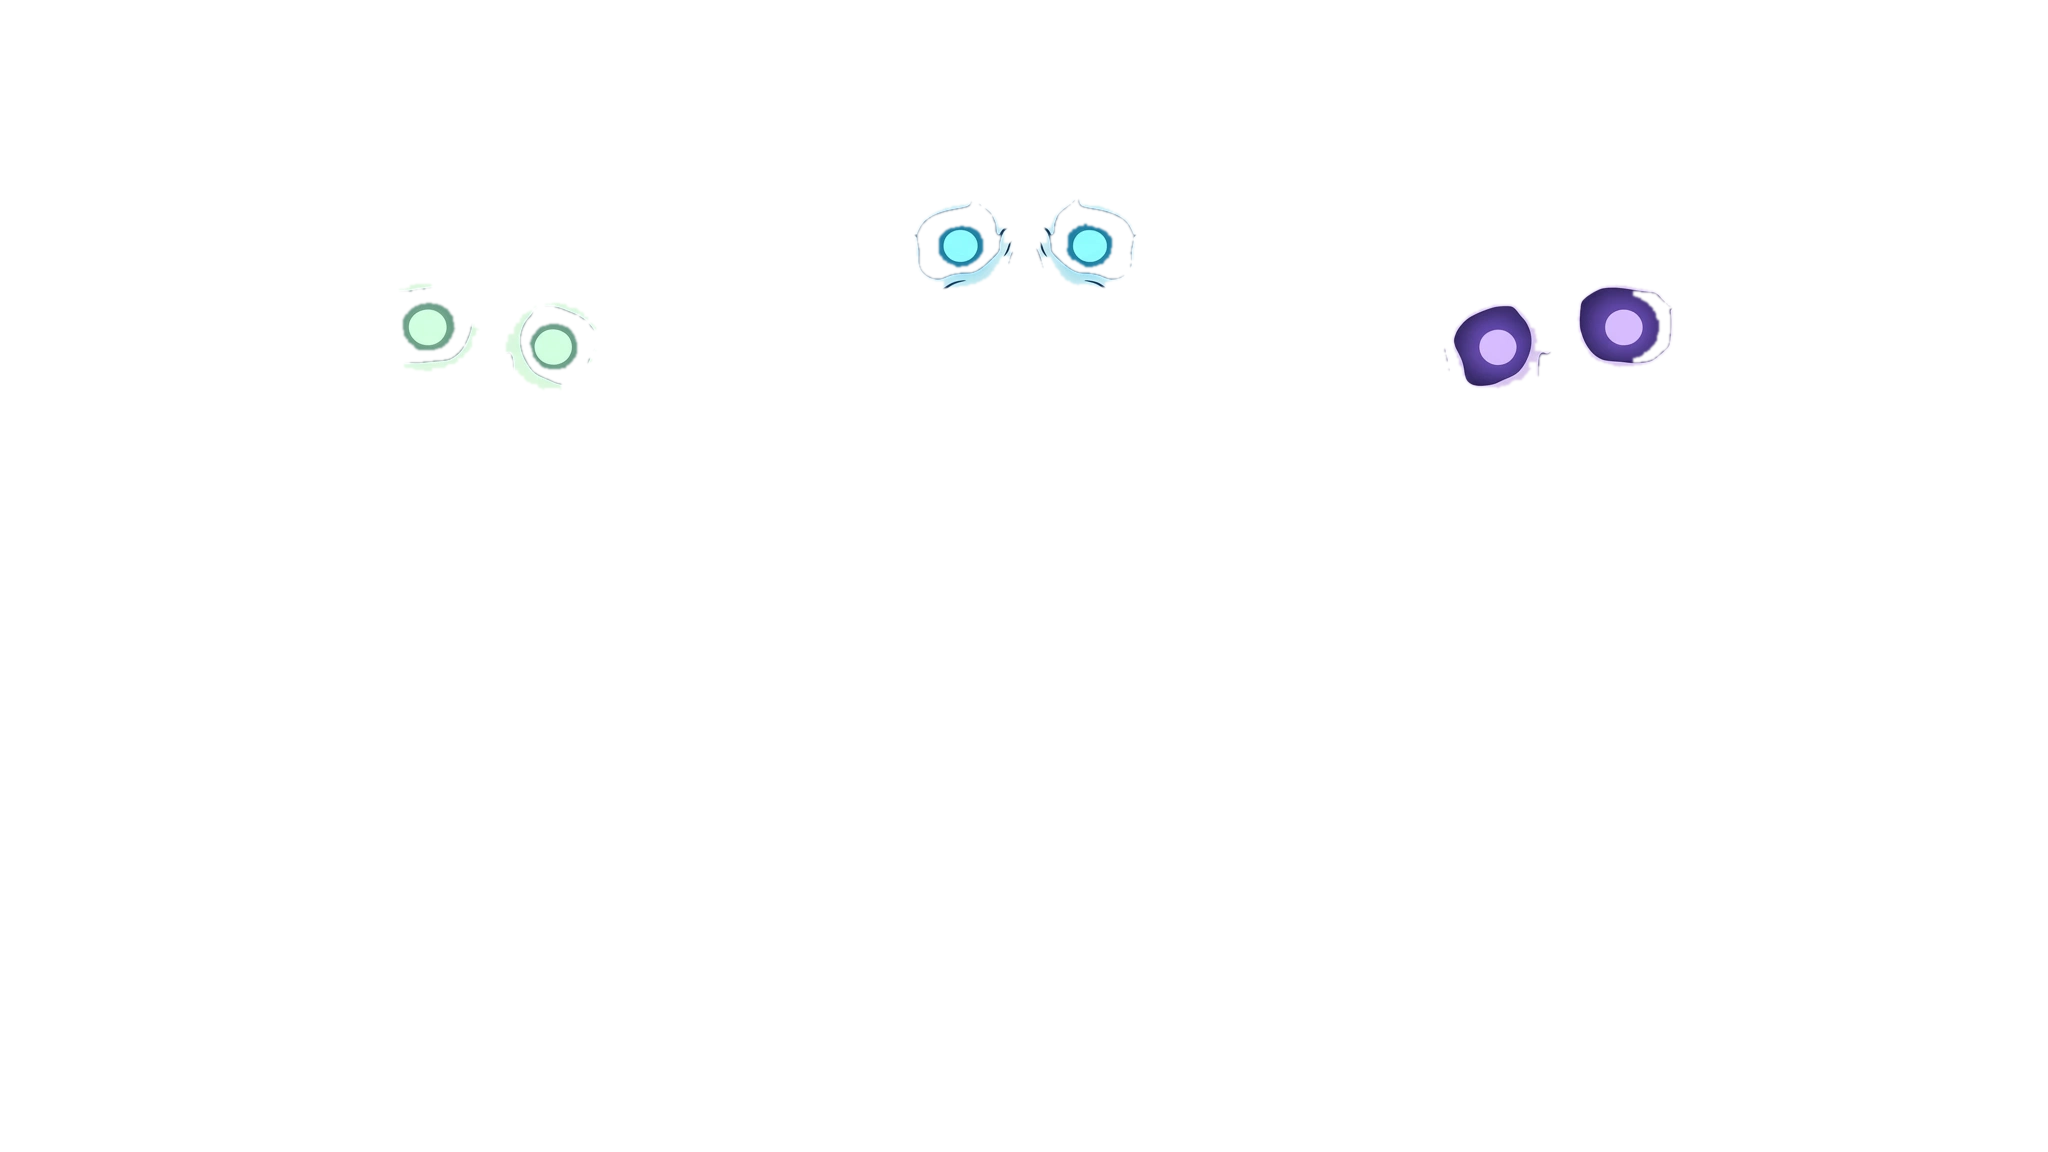
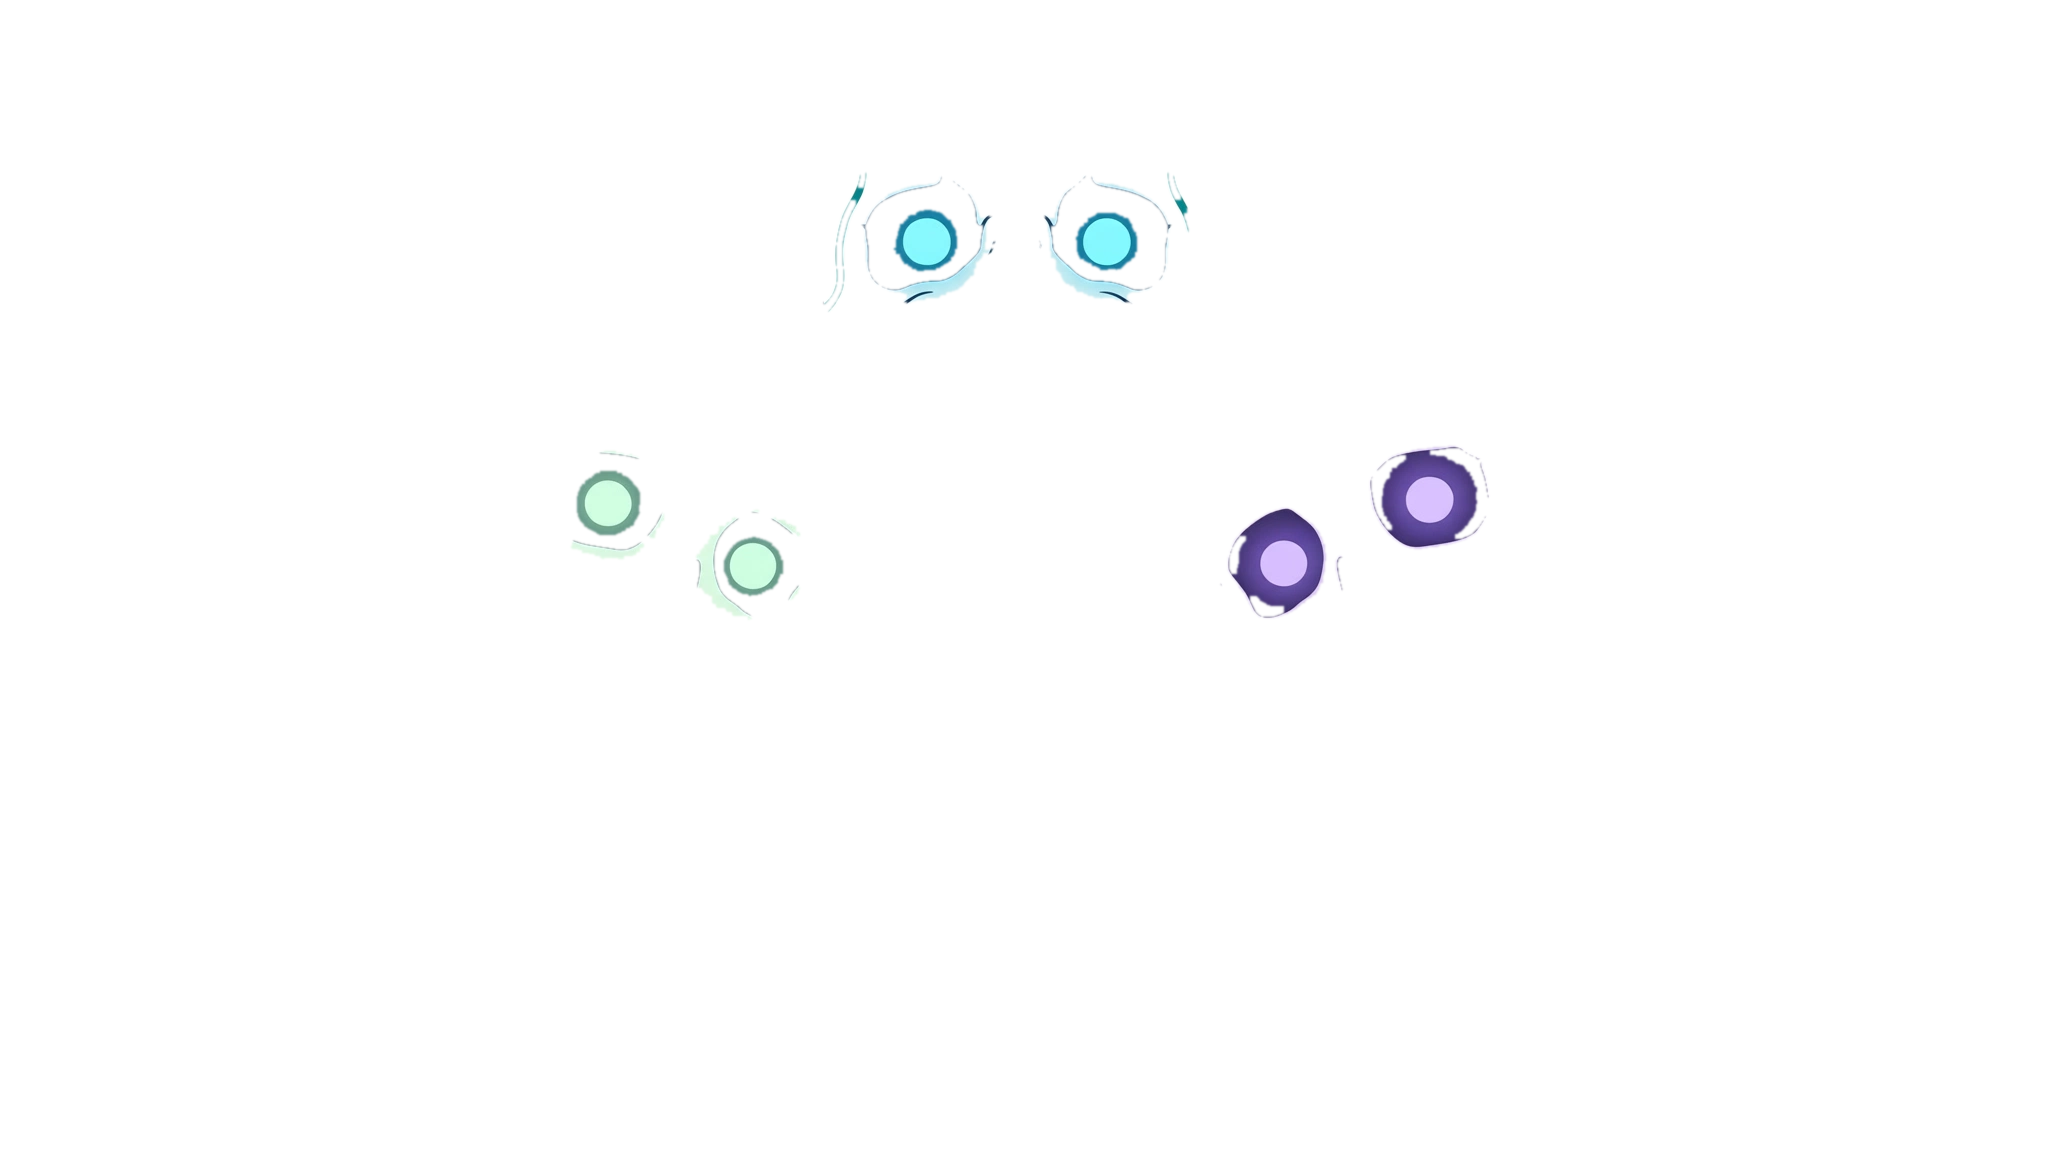
feat(skins): Trio becomes the board plate — two hands hold the playlist
Lan's correction to the no-hands row: back to the tight overlapping
trio (center skull high, side skulls low, no bodies), and below
them a wide dark board held by two bony hands. The board's glowing
top edge is the seek, its face is the playlist (title on the top
strip), the gripping hands are prev/next, and volume runs down the
board's right edge to the baked dot. The near-black board is
protected from the backdrop flood fill or the fill eats it.

diff --git a/src/renderer/style.css b/src/renderer/style.css
@@ -1471,9 +1471,10 @@ input[type="range"]::-moz-range-thumb {
 
 /* ════════════════════════════════════════════════════════════════════
    SKELETON TRIO — IMAGE FRAME (2026-11-09)
-   Three skeletons, one frame. All six eye sockets are one separated
-   layer; the center skeleton carries viz / seek / spine volume; the
-   raised outer hands (top corners) are prev / next.
+   Three skulls, one frame. All six eye sockets are one separated
+   layer; the center skull carries the jaw visualizer; below, two hands
+   hold a board — the board's top edge is the seek, the board is the
+   playlist, the gripping hands are prev / next, board edge = volume.
    ════════════════════════════════════════════════════════════════════ */
 [data-skin="skeleton-trio"] {
   --color-accent: #8adcff;
@@ -1510,10 +1511,10 @@ input[type="range"]::-moz-range-thumb {
 }
 .skeleton-trio-skin .tr-eyes {
   position: absolute;
-  left: 12%;
-  top: 8%;
-  width: 75%;
-  height: 42%;
+  left: 20%;
+  top: 3%;
+  width: 59.5%;
+  height: 57%;
   padding: 0;
   background: transparent;
   border: none;
@@ -1529,20 +1530,20 @@ input[type="range"]::-moz-range-thumb {
   opacity: 0;
   transition: opacity 0.35s ease;
   background:
-    radial-gradient(circle at 20.8% 28.5%, rgba(150, 255, 205, 0.55), rgba(150, 255, 205, 0.15) 3%, transparent 5.5%),
-    radial-gradient(circle at 26.8% 29.5%, rgba(150, 255, 205, 0.55), rgba(150, 255, 205, 0.15) 3%, transparent 5.5%),
-    radial-gradient(circle at 47% 21%, rgba(110, 220, 255, 0.6), rgba(110, 220, 255, 0.16) 3%, transparent 5.5%),
-    radial-gradient(circle at 53% 21%, rgba(110, 220, 255, 0.6), rgba(110, 220, 255, 0.16) 3%, transparent 5.5%),
-    radial-gradient(circle at 73.8% 29.5%, rgba(185, 150, 255, 0.55), rgba(185, 150, 255, 0.15) 3%, transparent 5.5%),
-    radial-gradient(circle at 79.8% 28.5%, rgba(185, 150, 255, 0.55), rgba(185, 150, 255, 0.15) 3%, transparent 5.5%);
+    radial-gradient(circle at 30.5% 43.5%, rgba(150, 255, 205, 0.55), rgba(150, 255, 205, 0.15) 3.5%, transparent 6%),
+    radial-gradient(circle at 36.5% 48%, rgba(150, 255, 205, 0.55), rgba(150, 255, 205, 0.15) 3.5%, transparent 6%),
+    radial-gradient(circle at 45.3% 20.8%, rgba(110, 220, 255, 0.6), rgba(110, 220, 255, 0.16) 3.5%, transparent 6%),
+    radial-gradient(circle at 54% 20.8%, rgba(110, 220, 255, 0.6), rgba(110, 220, 255, 0.16) 3.5%, transparent 6%),
+    radial-gradient(circle at 63% 48%, rgba(185, 150, 255, 0.55), rgba(185, 150, 255, 0.15) 3.5%, transparent 6%),
+    radial-gradient(circle at 69.5% 43.5%, rgba(185, 150, 255, 0.55), rgba(185, 150, 255, 0.15) 3.5%, transparent 6%);
   z-index: 2;
 }
 .skeleton-trio-skin .tr-body:has(.tr-eyes.playing) .tr-eye-glow { opacity: 1; }
 .skeleton-trio-skin .tr-track-info {
   position: absolute;
-  left: 39.8%;
-  top: 50.3%;
-  width: 20.4%;
+  left: 38%;
+  top: 68.6%;
+  width: 24%;
   text-align: center;
   z-index: 3;
   pointer-events: none;
@@ -1568,10 +1569,10 @@ input[type="range"]::-moz-range-thumb {
 }
 .skeleton-trio-skin .tr-viz-panel {
   position: absolute;
-  left: 46.3%;
-  top: 32.5%;
-  width: 8%;
-  height: 11.5%;
+  left: 43.3%;
+  top: 38%;
+  width: 12.2%;
+  height: 15%;
   border-radius: 8px;
   background: rgba(5, 9, 15, 0.5);
   box-shadow: inset 0 0 14px rgba(0, 0, 0, 0.5);
@@ -1581,9 +1582,9 @@ input[type="range"]::-moz-range-thumb {
 .skeleton-trio-skin .tr-prev,
 .skeleton-trio-skin .tr-next {
   position: absolute;
-  top: 55%;
-  width: 8%;
-  height: 40%;
+  top: 78%;
+  width: 9.5%;
+  height: 14.5%;
   padding: 0;
   background: transparent;
   border: none;
@@ -1592,8 +1593,8 @@ input[type="range"]::-moz-range-thumb {
   z-index: 4;
   -webkit-app-region: no-drag;
 }
-.skeleton-trio-skin .tr-prev { left: 2.5%; }
-.skeleton-trio-skin .tr-next { left: 89.5%; }
+.skeleton-trio-skin .tr-prev { left: 20%; }
+.skeleton-trio-skin .tr-next { left: 70.5%; }
 .skeleton-trio-skin .tr-prev:hover,
 .skeleton-trio-skin .tr-next:hover {
   background: radial-gradient(circle, rgba(170, 230, 255, 0.22), transparent 72%);
@@ -1604,21 +1605,11 @@ input[type="range"]::-moz-range-thumb {
 }
 .skeleton-trio-skin .tr-seek-region {
   position: absolute;
-  left: 9.5%;
-  top: 70.3%;
-  width: 81.5%;
+  left: 22.5%;
+  top: 65.6%;
+  width: 54.8%;
   z-index: 4;
   -webkit-app-region: no-drag;
-}
-.skeleton-trio-skin .tr-seek-region::before {
-  content: '';
-  position: absolute;
-  inset: -10px -6px;
-  border-radius: 50%;
-  background: linear-gradient(180deg, transparent 30%, rgba(110, 220, 255, 0.13) 50%, transparent 72%);
-  -webkit-mask-image: linear-gradient(to right, black 0 29%, transparent 29% 35%, black 35% 64%, transparent 64% 70%, black 70% 100%);
-  mask-image: linear-gradient(to right, black 0 29%, transparent 29% 35%, black 35% 64%, transparent 64% 70%, black 70% 100%);
-  pointer-events: none;
 }
 .skeleton-trio-skin .tr-seek {
   width: 100%;
@@ -1658,10 +1649,10 @@ input[type="range"]::-moz-range-thumb {
 }
 .skeleton-trio-skin .tr-spine-vol {
   position: absolute;
-  left: 46.8%;
-  top: 84%;
-  width: 6.4%;
-  height: 15.5%;
+  left: 74.6%;
+  top: 71%;
+  width: 3.6%;
+  height: 24%;
   cursor: grab;
   z-index: 4;
   -webkit-app-region: no-drag;
@@ -1697,10 +1688,10 @@ input[type="range"]::-moz-range-thumb {
 }
 .skeleton-trio-skin .tr-playlist {
   position: absolute;
-  left: 39.5%;
+  left: 27.5%;
   top: 75.5%;
-  width: 21%;
-  max-height: 8.5%;
+  width: 41.5%;
+  max-height: 20%;
   margin: 0;
   padding: 4px;
   list-style: none;

diff --git a/AGENTS.md b/AGENTS.md
@@ -32,7 +32,7 @@ Costume Contest: a haunting UI that is polished/unforgettable AND where the spoo
   - `src/renderer/` — all UI code (audio engine, player logic, skins)
   - `src/renderer/skins/index.ts` — skin registry (add new skins here)
   - `resources/` — app icon and other native assets
-  - `public/tracks/` — bundled royalty-free demo tracks (not yet added)
+  - `public/tracks/` — bundled royalty-free demo tracks (added 2026-11-10; see Open decisions)
 
 ## Scope v1
 - **Electron desktop app**; local audio files via native OS file picker + bundled royalty-free demo tracks.
@@ -74,7 +74,7 @@ Costume Contest: a haunting UI that is polished/unforgettable AND where the spoo
 - **Image frame + separated mechanism — 2026-11-09 (Lan's direction, supersedes the hand-drawn SVG silhouette for Dracula):** the approved artwork itself is the frame. A text-free edit of the reference ships as `src/renderer/assets/dracula-frame.webp`, clipped to the character outline via CSS `clip-path`; each painted element is a live overlay control — eyes = play/pause hotspot + playing glow, blood line = seek (transparent track, drip thumb), medallion = volume (drag / wheel / arrow keys; a gold orbit dot circles it to show the value), cape interior = live visualizer over a settling panel, fangs = prev/next hotspots, real title + playlist rendered over the art. Hotspot coordinates were verified by compositing the control boxes over the plate. Lesson earned the same day: match the approved reference's proportions, not just its ingredient list — a from-scratch SVG redraw read as "lame" next to the generated art.
 - **Separated element layers — 2026-11-09:** the plate's eyes, medallion and fangs are now real transparent layers (`src/renderer/assets/dracula-*.png`, full-canvas so they stack pixel-exact), extracted by color segmentation (SAM was attempted first; the PyTorch download is proxy-blocked in the build sandbox, and for flat art the color masks are crisper anyway). The medallion is erased from the shipped plate (stretch-inpaint) so the extracted layer genuinely rotates with volume; eye layers pulse via CSS filter while playing; fang layers glow when their hotspot is hovered/pressed. Layers recombine over the cleaned plate pixel-identical to the original art (verified by composite).
 - **True transparency — 2026-11-09:** the plate's baked-in dark backdrop survived the hand-traced CSS `clip-path` as a faint square around the character (Lan spotted it on Windows). Fix: the backdrop is flood-filled out of the plate itself (the gold trim is a closed boundary; backdrop = neutral grey connected to the image borders), so `dracula-frame.webp` now carries a real alpha channel and the `clip-path` is gone. Verified by compositing the plate on white and bright teal — clean character edge, no rectangle. Lesson: never approximate an outline with a polygon when the art can carry its own alpha.
-- **Skin #4: Skeleton Trio — 2026-11-09 (Lan's pick, one skin with three skeletons):** three skeletons shoulder-to-shoulder as one frame; all six eye sockets (mint / cyan / violet) are one separated layer + one wide play/pause hotspot; the CENTER skeleton carries the jaw visualizer, ribcage seek and spine volume (same vertical mechanism as solo Skeleton); the raised outer hands at the top corners are prev/next. **Revised to BUSTS the same day (Lan: "no need the whole body"):** three big busts cropped at mid-torso — skulls and sockets much larger, seek across the center ribs, spine volume on the short vertebra stub below the ribs, playlist across the lower ribs. The full-body version exists only in git history (`ccd82196`). **Then revised to LANDSCAPE the same day (Lan's pick):** the Trio is a wide 16:9 plate and it is the first skin to own the window shape: `Skin.windowSize` (Trio declares 1024×576; every other skin defaults to portrait 480×720) is applied by `Player.mountSkin` through the `window:set-size` IPC (main unmaximizes, resizes, centers). **Final plate (Lan pointed at the portrait-bust art: "make this one in landscape"; hands removed on his call 2026-11-10):** the big-skulled bust trio recomposed wide with NO hands anywhere — the arms are single hanging bones at the far edges and those bones are prev/next. The seek line spans all three ribcages again (its CSS glow band is mask-clipped to the three cage columns so it never floats over the gaps), center skeleton carries jaw viz + spine volume, side skulls complete the play/pause row, playlist across the lower center ribs. The smaller holding-hands landscape plate and the first bust-landscape plate (waving hands) were both replaced. Note: rib-gap pockets sealed by overlapping bodies stay as dark backing inside the cages — reads as shadow, accepted.
+- **Skin #4: Skeleton Trio — 2026-11-09 (Lan's pick, one skin with three skeletons):** three skeletons shoulder-to-shoulder as one frame; all six eye sockets (mint / cyan / violet) are one separated layer + one wide play/pause hotspot; the CENTER skeleton carries the jaw visualizer, ribcage seek and spine volume (same vertical mechanism as solo Skeleton); the raised outer hands at the top corners are prev/next. **Revised to BUSTS the same day (Lan: "no need the whole body"):** three big busts cropped at mid-torso — skulls and sockets much larger, seek across the center ribs, spine volume on the short vertebra stub below the ribs, playlist across the lower ribs. The full-body version exists only in git history (`ccd82196`). **Then revised to LANDSCAPE the same day (Lan's pick):** the Trio is a wide 16:9 plate and it is the first skin to own the window shape: `Skin.windowSize` (Trio declares 1024×576; every other skin defaults to portrait 480×720) is applied by `Player.mountSkin` through the `window:set-size` IPC (main unmaximizes, resizes, centers). **Final plate (Lan pointed at the portrait-bust art: "make this one in landscape"; hands removed on his call 2026-11-10):** the big-skulled bust trio recomposed wide with NO hands anywhere — the arms are single hanging bones at the far edges and those bones are prev/next. The seek line spans all three ribcages again (its CSS glow band is mask-clipped to the three cage columns so it never floats over the gaps), center skeleton carries jaw viz + spine volume, side skulls complete the play/pause row, playlist across the lower center ribs. The smaller holding-hands landscape plate and the first bust-landscape plate (waving hands) were both replaced. **Superseded the same evening (Lan: "it suppose similar to this, and below will have a board that holded by 2 hands"): the BOARD plate** — back to the tight overlapping trio (center skull high, side skulls low, no bodies), and below them a wide dark board held by two bony hands: the board's glowing top edge is the seek, the board face is the playlist (title on its top strip), the gripping hands are prev/next, and volume runs down the board's right edge (the vertical drag mechanism, ending at the baked dot). Pipeline note: the near-black board is backdrop-dark, so the flood fill protects its rectangle or it eats the board. Note: rib-gap pockets sealed by overlapping bodies stay as dark backing inside the cages — reads as shadow, accepted.
 - **Push repair — 2026-11-10:** the no-hands Trio push was built on a stale local sync and briefly reverted the 2026-11-10/11 work in `style.css` / this file (web-parity Dracula, window shape, plate sizing). Repaired the same session by rebuilding both files on top of the live versions with only the Trio delta reapplied, and verified the remote diff. Lesson (again): re-sync and diff every pushed file against live main at push time, especially after time away from the repo.
 
 - **All three skins image-frame — 2026-11-09:** Frankenstein and Skeleton got the full Dracula treatment — generated character art (text-free on the first pass this time), backdrop flood-filled to alpha, element layers separated by color segmentation. Frankenstein: forehead EQ = visualizer panel, eyes = play/pause (layers pulse), neck bolts = prev/next, chest scar = seek, brass dial in the hand = volume (dial erased from the plate via a palm-gradient fill and the layer rotates; two erase lessons — a horizontal-stretch inpaint smears when neighbours aren't uniform, and any erase zone must sit inside the flood-fill's protected region or the fill eats it). Skeleton: eye sockets = play/pause, jaw gap = visualizer, ribcage line = seek, spine = VERTICAL volume (drag up/down; a glow fill + dot travel the vertebrae), bony hands = prev/next; the gaps between its bones are genuinely see-through, and the baked seek line's stubs outside the ribcage were alpha-clipped. All hotspot geometry verified by compositing the CSS boxes over the plates; the dial rotation was verified ghost-free.
